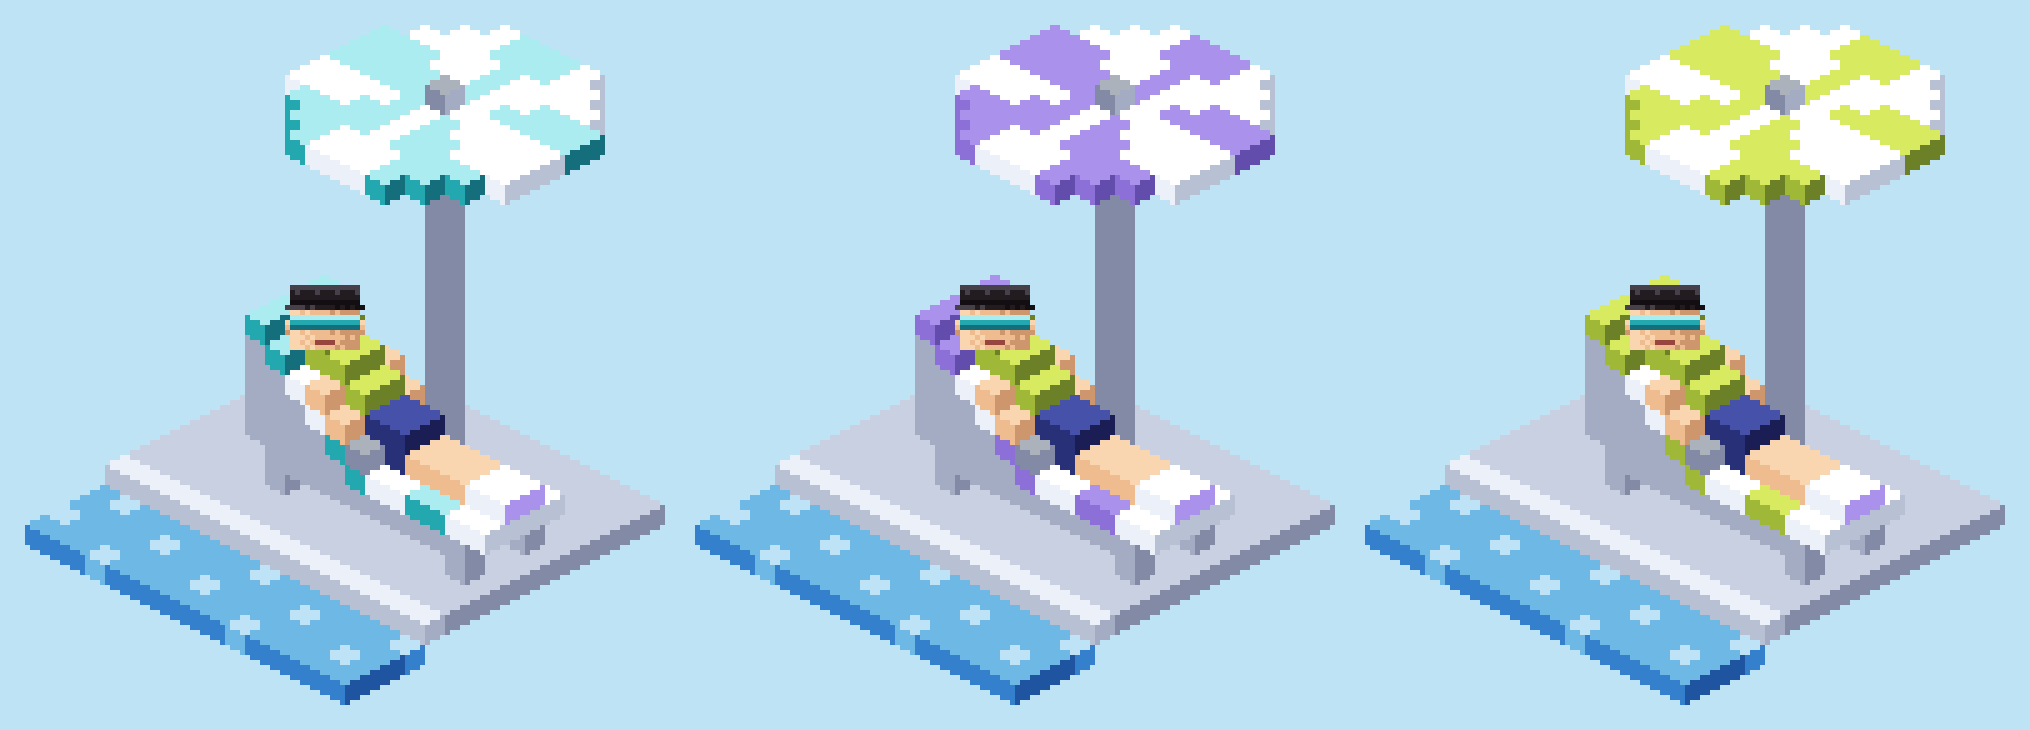
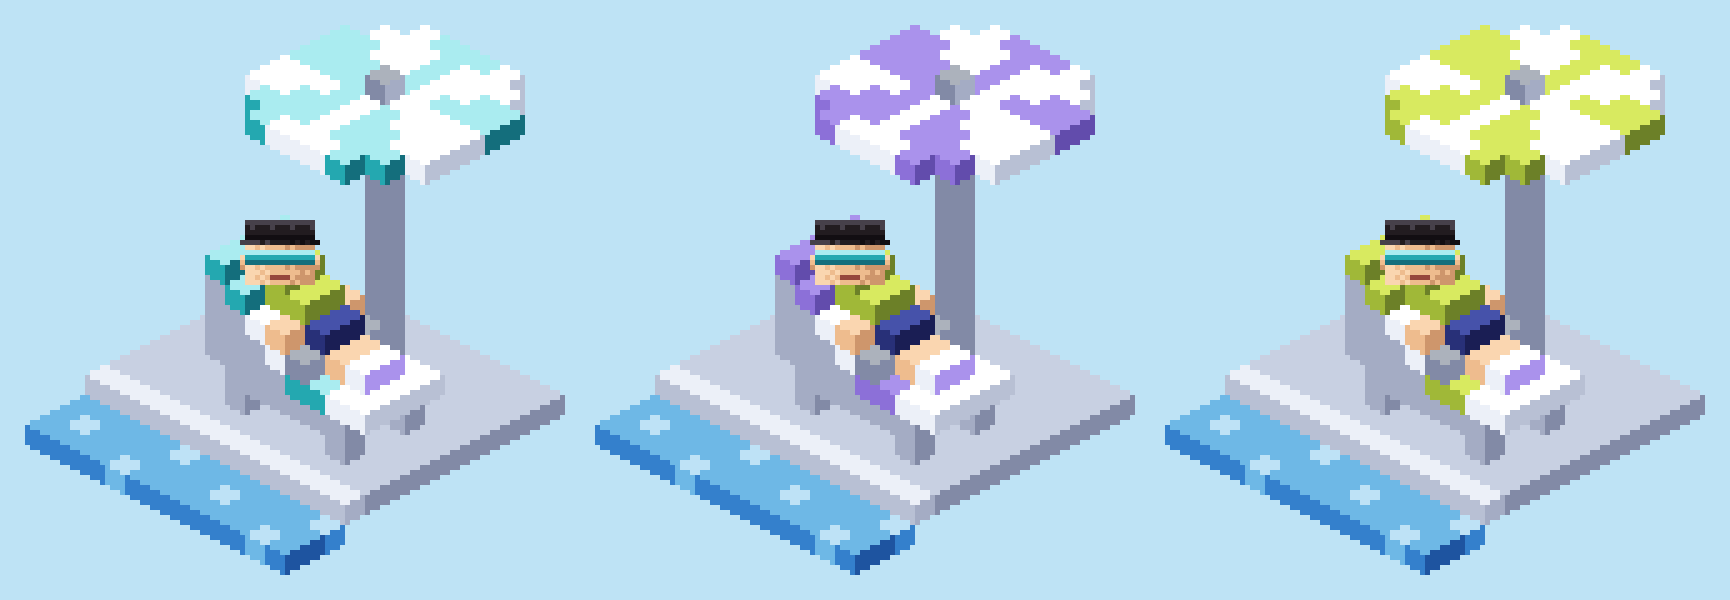
休息圖改 Q 版比例：縮短身體與躺椅，頭佔比放大；保留長版腳本

Changed region(s): [[0.0, 0.03, 0.9988, 0.96]]

diff --git a/source/rest_iso/build_iso_v1_long.py b/source/rest_iso/build_iso_v1_long.py
@@ -1,0 +1,110 @@
+#!/usr/bin/env python3
+"""休息圖（等角 2:1，體素堆疊，逐像素光柵化）。執行：python3 build_iso.py [放大倍數] → iso_rest.json、preview.png
+格式同 sprite_data.json：[y,x,寬,色票索引]，色票沿用 ACT.p。頭部像素取自 idle（正面）影格，不重畫。"""
+import json, math, sys
+from lib import *
+A = ACT['a']
+TW, TH, ZH = 8, 4, 4          # 頂面菱形 8×4（2:1），每一層高 4 px
+# 材質 (上, 左, 右)：光源在左上，上最亮、左次之、右最暗
+M = dict(
+  deck=(21,22,23), coping=(26,27,22), frame=(27,22,23), pole=(22,23,23), grey=(15,23,22), white=(25,26,27),
+  shirt=(10,11,12), shorts=(17,18,19), skin=(3,4,5), watch=(15,23,23), shoe=(25,26,24),
+  shade=(22,23,23), water=(32,33,34), waterHi=(31,32,33),
+)
+COLORWAYS = {'青綠': (6,7,8), '紫': (24,29,30), '萊姆': (10,11,12)}
+
+def voxels(stripe):
+    V = {}
+    put = lambda x,y,z,m: V.__setitem__((x,y,z),m)
+    for x in range(16):
+        for y in range(16):
+            if y >= 12: put(x,y,-1, M['waterHi'] if (x*3+y*5)%7==0 else M['water'])   # 前方泳池，低一格
+            else: put(x,y,0, M['coping'] if y==11 else M['deck'])
+    zc = lambda x: 3 + (9-x) if x < 9 else 3               # 椅背向頭端斜升
+    for x in range(4,16):
+        for y in range(5,9):
+            put(x,y,zc(x), stripe if (x//2)%2==0 else M['white'])
+        if x < 9:
+            for y in (5,8):
+                for z in range(3, zc(x)): put(x,y,z,M['frame'])
+    for (x,y) in [(5,5),(5,8),(14,5),(14,8)]:
+        for z in (1,2): put(x,y,z,M['frame'])
+    for x in range(5,15): put(x,5,2,M['frame']); put(x,8,2,M['frame'])
+    for x in (6,7,8):                                        # 軀幹（襯衫）
+        for y in (6,7): put(x,y,zc(x)+1,M['shirt']); put(x,y,zc(x)+2,M['shirt'])
+    for x in (9,10):                                         # 短褲
+        for y in (6,7): put(x,y,4,M['shorts']); put(x,y,5,M['shorts'])
+    for x in range(11,14):                                   # 腿
+        for y in (6,7): put(x,y,4,M['skin'])
+    for x in (14,15):                                        # 鞋（鞋頭朝 +x，右面為紫色鞋底）
+        for y in (6,7): put(x,y,4,M['shoe'])
+    for x in (7,8,9):                                        # 手臂放兩側
+        put(x,5,zc(x)+1,M['skin']); put(x,8,zc(x)+1,M['skin'])
+    put(9,5,4,M['watch']); put(9,8,4,M['watch'])
+    for z in range(1,17): put(7,2,z,M['pole'])               # 傘桿在椅後
+    cx,cy,zt = 7,2,17
+    for x in range(0,16):
+        for y in range(-4,9):
+            d = math.hypot(x-cx,y-cy)
+            if d <= 5.6:
+                sec = int(((math.atan2(y-cy,x-cx)+math.pi)/(2*math.pi))*10)%2
+                put(x,y,zt, stripe if sec==0 else M['white'])
+    put(7,2,zt+1,M['grey'])
+    return V
+
+def inside(poly, px, py):
+    n=len(poly); c=False
+    for i in range(n):
+        x1,y1=poly[i]; x2,y2=poly[(i+1)%n]
+        if (y1>py)!=(y2>py) and px < (x2-x1)*(py-y1)/(y2-y1)+x1: c=not c
+    return c
+def draw_voxel(buf,W,H,ox,oy,x,y,z,m):
+    top,left,right = m
+    cx = (x-y)*TW/2+ox; cy = (x+y)*TH/2 - (z+1)*ZH + oy     # 頂面菱形中心
+    T=[(cx,cy-TH/2),(cx+TW/2,cy),(cx,cy+TH/2),(cx-TW/2,cy)]
+    L=[(cx-TW/2,cy),(cx,cy+TH/2),(cx,cy+TH/2+ZH),(cx-TW/2,cy+ZH)]
+    R=[(cx,cy+TH/2),(cx+TW/2,cy),(cx+TW/2,cy+ZH),(cx,cy+TH/2+ZH)]
+    for py in range(int(cy-TH/2)-1,int(cy+TH/2+ZH)+2):
+        for px in range(int(cx-TW/2)-1,int(cx+TW/2)+2):
+            if not(0<=px<W and 0<=py<H): continue
+            p=(px+.5,py+.5)
+            if inside(T,*p): buf[py][px]=top
+            elif inside(L,*p): buf[py][px]=left
+            elif inside(R,*p): buf[py][px]=right
+W,H,OX,OY = 220,240,110,100
+def build(stripe):
+    V=voxels(stripe); buf=[[None]*W for _ in range(H)]
+    for (x,y,z) in sorted(V,key=lambda k:(k[0]+k[1]+k[2],k[2])): draw_voxel(buf,W,H,OX,OY,x,y,z,V[(x,y,z)])
+    # 頭：idle（正面）第 0–13 列；底部置中於椅背頂端
+    f=A['idle']['f'][0]; rows=[(y,x,w,c) for y,x,w,c in f if y<=13]
+    x0=min(x for _,x,_,_ in rows); x1=max(x+w for _,x,w,_ in rows)
+    hx=(5.5-6.5)*TW/2+OX; hy=(5.5+6.5)*TH/2-(3+(9-5)+1)*ZH+OY
+    ox=int(round(hx-(x0+x1)/2)); oy=int(round(hy-14))+3
+    for y,x,w,c in rows:
+        for i in range(w):
+            px,py=x+i+ox,y+oy
+            if 0<=px<W and 0<=py<H: buf[py][px]=c
+    return buf
+def crop(buf,pad=1):
+    ys=[y for y,r in enumerate(buf) if any(v is not None for v in r)]; xs=[x for r in buf for x,v in enumerate(r) if v is not None]
+    y0,y1,x0,x1=max(min(ys)-pad,0),max(ys)+pad,max(min(xs)-pad,0),max(xs)+pad
+    return [r[x0:x1+1] for r in buf[y0:y1+1]]
+def runs(buf):
+    out=[]
+    for y,row in enumerate(buf):
+        x=0; wd=len(row)
+        while x<wd:
+            if row[x] is None: x+=1; continue
+            c=row[x]; s=x
+            while x<wd and row[x]==c: x+=1
+            out.append([y,s,x-s,c])
+    return out
+if __name__=='__main__':
+    out={'meta':{'note':'休息圖（等角 2:1 體素場景）：泳池、躺椅、遮陽傘、躺著的娃娃。三種配色，使用時隨機挑一個。格式 [y,x,寬,色票索引]，色票沿用 ACT.p。頭部像素取自 idle 影格。由 source/rest_iso/build_iso.py 產生。','colorways':list(COLORWAYS)},'variants':{}}
+    bufs={k:crop(build(st)) for k,st in COLORWAYS.items()}
+    sz=(max(len(b[0]) for b in bufs.values()),max(len(b) for b in bufs.values()))
+    frames=[]
+    for k,b in bufs.items():
+        r=runs(b); out['variants'][k]={'w':len(b[0]),'h':len(b),'f':[r]}; frames.append((r,len(b[0]),len(b)))
+    json.dump(out,open('iso_rest.json','w'),ensure_ascii=False,separators=(',',':'))
+    sheet(frames,scale=int(sys.argv[1]) if len(sys.argv)>1 else 5).save('preview.png'); print([(f[1],f[2]) for f in frames])

diff --git a/source/rest_iso/build_iso.py b/source/rest_iso/build_iso.py
@@ -16,40 +16,38 @@ COLORWAYS = {'青綠': (6,7,8), '紫': (24,29,30), '萊姆': (10,11,12)}
 def voxels(stripe):
     V = {}
     put = lambda x,y,z,m: V.__setitem__((x,y,z),m)
-    for x in range(16):
-        for y in range(16):
-            if y >= 12: put(x,y,-1, M['waterHi'] if (x*3+y*5)%7==0 else M['water'])   # 前方泳池，低一格
-            else: put(x,y,0, M['coping'] if y==11 else M['deck'])
-    zc = lambda x: 3 + (9-x) if x < 9 else 3               # 椅背向頭端斜升
-    for x in range(4,16):
+    for x in range(13):
+        for y in range(14):
+            if y >= 11: put(x,y,-1, M['waterHi'] if (x*3+y*5)%7==0 else M['water'])   # 前方泳池，低一格
+            else: put(x,y,0, M['coping'] if y==10 else M['deck'])
+    zc = lambda x: 3 + (8-x) if x < 8 else 3               # 椅背向頭端斜升
+    for x in range(4,12):
         for y in range(5,9):
             put(x,y,zc(x), stripe if (x//2)%2==0 else M['white'])
-        if x < 9:
+        if x < 8:
             for y in (5,8):
                 for z in range(3, zc(x)): put(x,y,z,M['frame'])
-    for (x,y) in [(5,5),(5,8),(14,5),(14,8)]:
+    for (x,y) in [(5,5),(5,8),(10,5),(10,8)]:
         for z in (1,2): put(x,y,z,M['frame'])
-    for x in range(5,15): put(x,5,2,M['frame']); put(x,8,2,M['frame'])
-    for x in (6,7,8):                                        # 軀幹（襯衫）
+    for x in range(5,11): put(x,5,2,M['frame']); put(x,8,2,M['frame'])
+    # Q 版身體：短軀幹、短褲、短腿、小鞋
+    for x in (6,7):
         for y in (6,7): put(x,y,zc(x)+1,M['shirt']); put(x,y,zc(x)+2,M['shirt'])
-    for x in (9,10):                                         # 短褲
-        for y in (6,7): put(x,y,4,M['shorts']); put(x,y,5,M['shorts'])
-    for x in range(11,14):                                   # 腿
-        for y in (6,7): put(x,y,4,M['skin'])
-    for x in (14,15):                                        # 鞋（鞋頭朝 +x，右面為紫色鞋底）
-        for y in (6,7): put(x,y,4,M['shoe'])
-    for x in (7,8,9):                                        # 手臂放兩側
+    for y in (6,7): put(8,y,4,M['shorts']); put(8,y,5,M['shorts'])
+    for y in (6,7): put(9,y,4,M['skin'])
+    for y in (6,7): put(10,y,4,M['shoe'])
+    for x in (7,8):                                         # 手臂
         put(x,5,zc(x)+1,M['skin']); put(x,8,zc(x)+1,M['skin'])
-    put(9,5,4,M['watch']); put(9,8,4,M['watch'])
-    for z in range(1,17): put(7,2,z,M['pole'])               # 傘桿在椅後
-    cx,cy,zt = 7,2,17
-    for x in range(0,16):
-        for y in range(-4,9):
+    put(8,5,4,M['watch']); put(8,8,4,M['watch'])
+    for z in range(1,13): put(6,2,z,M['pole'])              # 傘桿在椅後
+    cx,cy,zt = 6,2,13
+    for x in range(0,13):
+        for y in range(-4,8):
             d = math.hypot(x-cx,y-cy)
-            if d <= 5.6:
+            if d <= 4.6:
                 sec = int(((math.atan2(y-cy,x-cx)+math.pi)/(2*math.pi))*10)%2
                 put(x,y,zt, stripe if sec==0 else M['white'])
-    put(7,2,zt+1,M['grey'])
+    put(6,2,zt+1,M['grey'])
     return V
 
 def inside(poly, px, py):
@@ -78,7 +76,7 @@ def build(stripe):
     # 頭：idle（正面）第 0–13 列；底部置中於椅背頂端
     f=A['idle']['f'][0]; rows=[(y,x,w,c) for y,x,w,c in f if y<=13]
     x0=min(x for _,x,_,_ in rows); x1=max(x+w for _,x,w,_ in rows)
-    hx=(5.5-6.5)*TW/2+OX; hy=(5.5+6.5)*TH/2-(3+(9-5)+1)*ZH+OY
+    hx=(5.2-6.5)*TW/2+OX; hy=(5.2+6.5)*TH/2-(3+(8-5)+1)*ZH+OY
     ox=int(round(hx-(x0+x1)/2)); oy=int(round(hy-14))+3
     for y,x,w,c in rows:
         for i in range(w):
